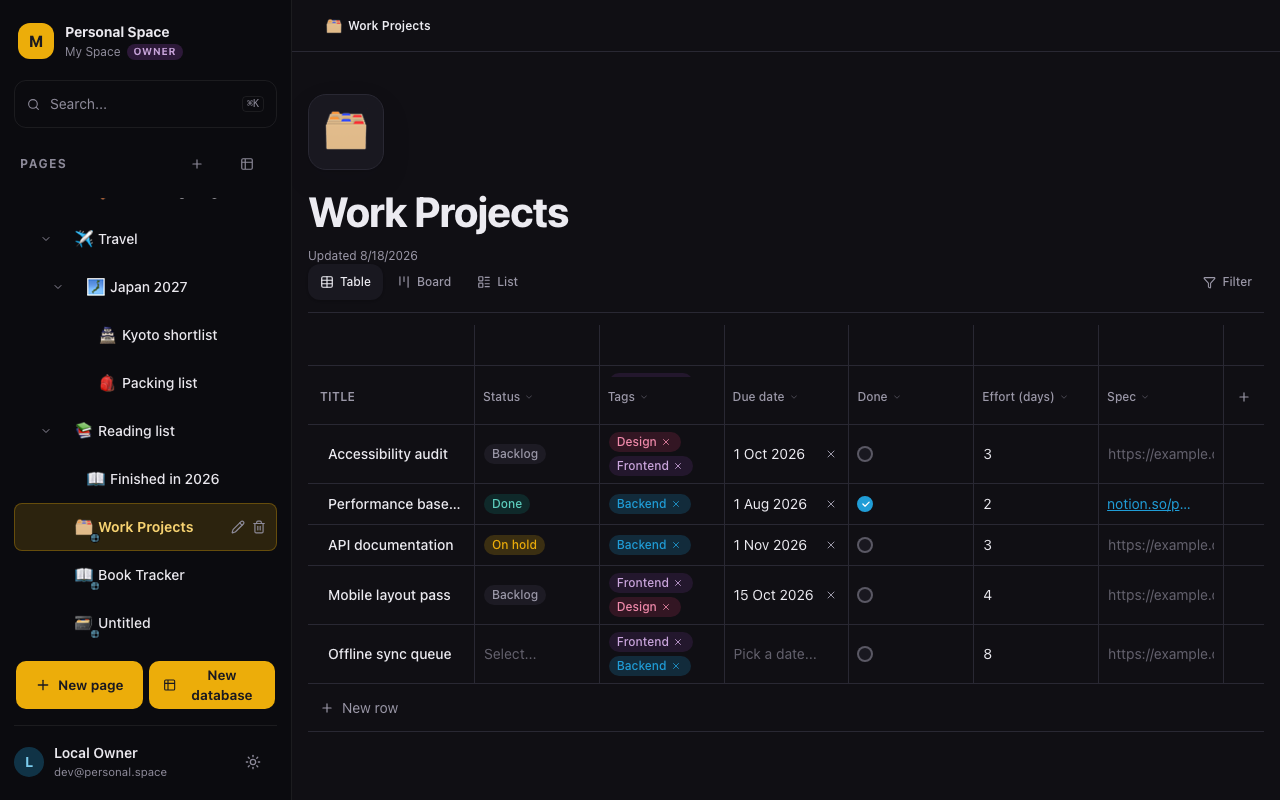
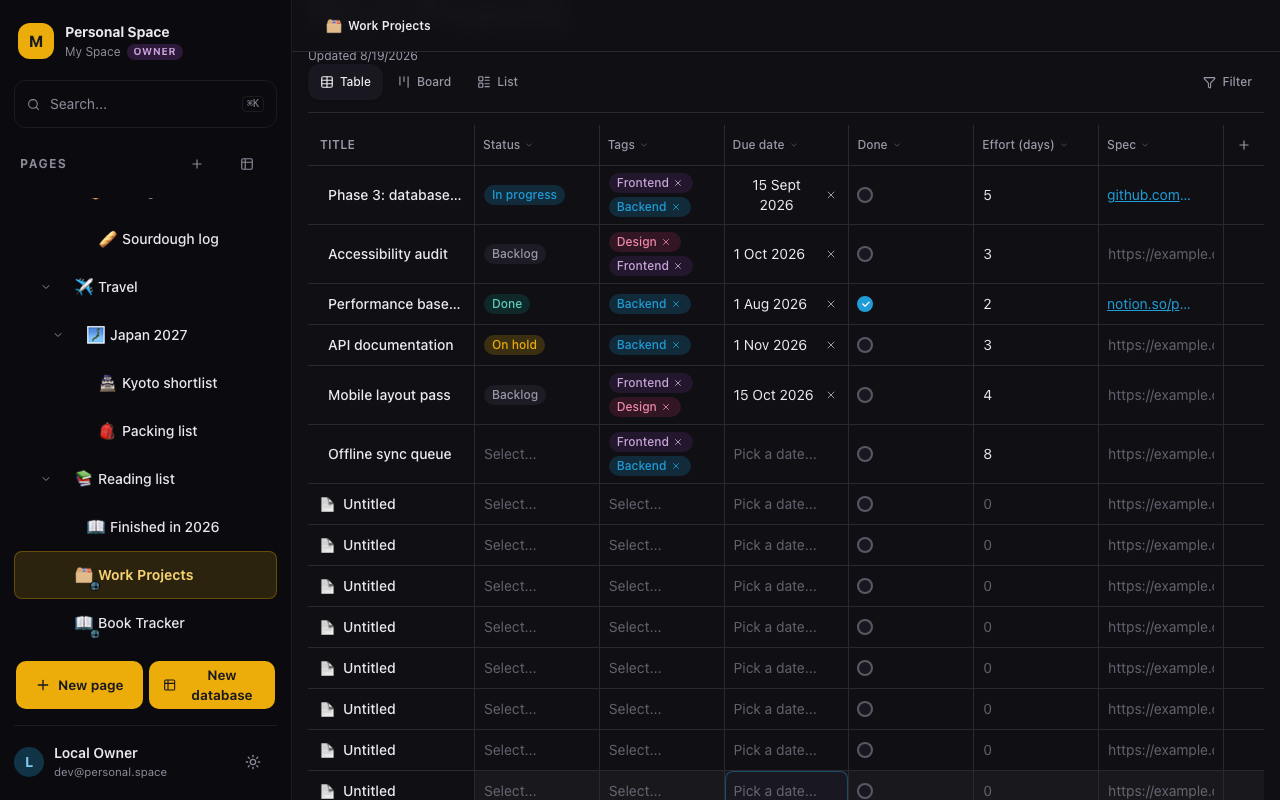
Pin the table header flush, correcting the sticky offset from DEF-054
The first DEF-054 fix left a 52px empty band above the header row and a
clipped multi-select chip bleeding through it, in both themes. Two separate
causes, both now fixed.

overflow-x-auto on the wrapper makes CSS compute overflow-y as auto, which
turned that div into a vertical scroll container and made the header's sticky
offset resolve against it rather than against the shell's content area.
[overflow-y:clip] clips on that axis without establishing a scroll container.

The band itself was the offset: position sticky with a top of N behaves like
position relative in normal flow, shifting the cell N pixels down from where
it sits and vacating its row box. top-13 therefore pushed the header 52px
clear of the table's top and let row one show through the gap. The breadcrumb
bar already occupies that space in the scroll container, so the correct offset
is top-0 and no compensation is needed.

The header now sits flush at the table's top, matching
screenshots/phase-4-database-table-view.png, and stays pinned when the rows
scroll past it.

diff --git a/packages/frontend/src/components/DatabaseView/DatabaseView.tsx b/packages/frontend/src/components/DatabaseView/DatabaseView.tsx
@@ -590,20 +590,27 @@ export function DatabaseView({
     }
   };
 
+  // overflow-x-auto enables horizontal scroll for wide tables. [overflow-y:clip] is required
+  // alongside it: CSS forces overflow-x:auto to compute overflow-y:auto (creating a scroll
+  // container on the Y axis), which makes sticky top-N resolve relative to this div instead
+  // of the WorkspaceShell content area. overflow-y:clip clips without creating a scroll
+  // container, so sticky is resolved against the correct ancestor (DEF-054).
   return (
-    <div className="w-full overflow-x-auto" data-testid="database-view">
+    <div className="w-full overflow-x-auto [overflow-y:clip]" data-testid="database-view">
       <table className="w-full border-collapse text-left">
         <thead>
-          {/* The thead row is sticky on both axes: top-13 clears the 52px breadcrumb bar in
-               PageView, and the title column is also sticky left-0 so each axis stays pinned
-               independently. bg-canvas is required for both so scrolling content does not
-               show through the sticky cells (DEF-054). */}
+          {/* The header row cells use sticky top-0 so they pin to the natural top of the
+               thead row without a relative-offset shift. top-N on a sticky element acts like
+               position:relative top:N in normal flow, so any value > 0 pushes the cells down
+               inside the thead row and creates an empty band (DEF-054). top-0 keeps the cells
+               flush with the row while still allowing sticky left-0 to pin the title column
+               horizontally. bg-canvas prevents scrolling rows from showing through. */}
           <tr className="border-b border-border">
             {/* Title column — min-w-[160px] balances readability and desktop fit (DEF-042):
                  with 6 properties at 120px each, 1 title at 160px, and 40px actions the
                  table minimum (920px) fits within the ~956px content area at 1280x800.
-                 sticky left-0 top-13 z-30 keeps this corner cell above all other sticky cells. */}
-            <th className="sticky top-13 left-0 z-30 min-w-[160px] border-r border-border bg-canvas">
+                 sticky left-0 top-0 z-30 keeps this corner cell above all other sticky cells. */}
+            <th className="sticky top-0 left-0 z-30 min-w-[160px] border-r border-border bg-canvas">
               <span className="block px-3 py-2 text-left text-xs font-semibold tracking-wide text-text-muted uppercase">
                 Title
               </span>
@@ -613,7 +620,7 @@ export function DatabaseView({
             {properties.map((prop) => (
               <th
                 key={prop.id}
-                className="sticky top-13 z-20 min-w-[120px] border-r border-border bg-canvas"
+                className="sticky top-0 z-20 min-w-[120px] border-r border-border bg-canvas"
               >
                 <PropertyHeaderMenu
                   property={prop}
@@ -628,8 +635,8 @@ export function DatabaseView({
                 />
               </th>
             ))}
-            {/* "Add property" header cell — sticky top-13 z-20 keeps it in the header row. */}
-            <th className="sticky top-13 z-20 w-10 border-r-0 bg-canvas">
+            {/* "Add property" header cell — sticky top-0 z-20 keeps it in the header row. */}
+            <th className="sticky top-0 z-20 w-10 border-r-0 bg-canvas">
               {addingProperty ? (
                 <DropdownMenu
                   open
